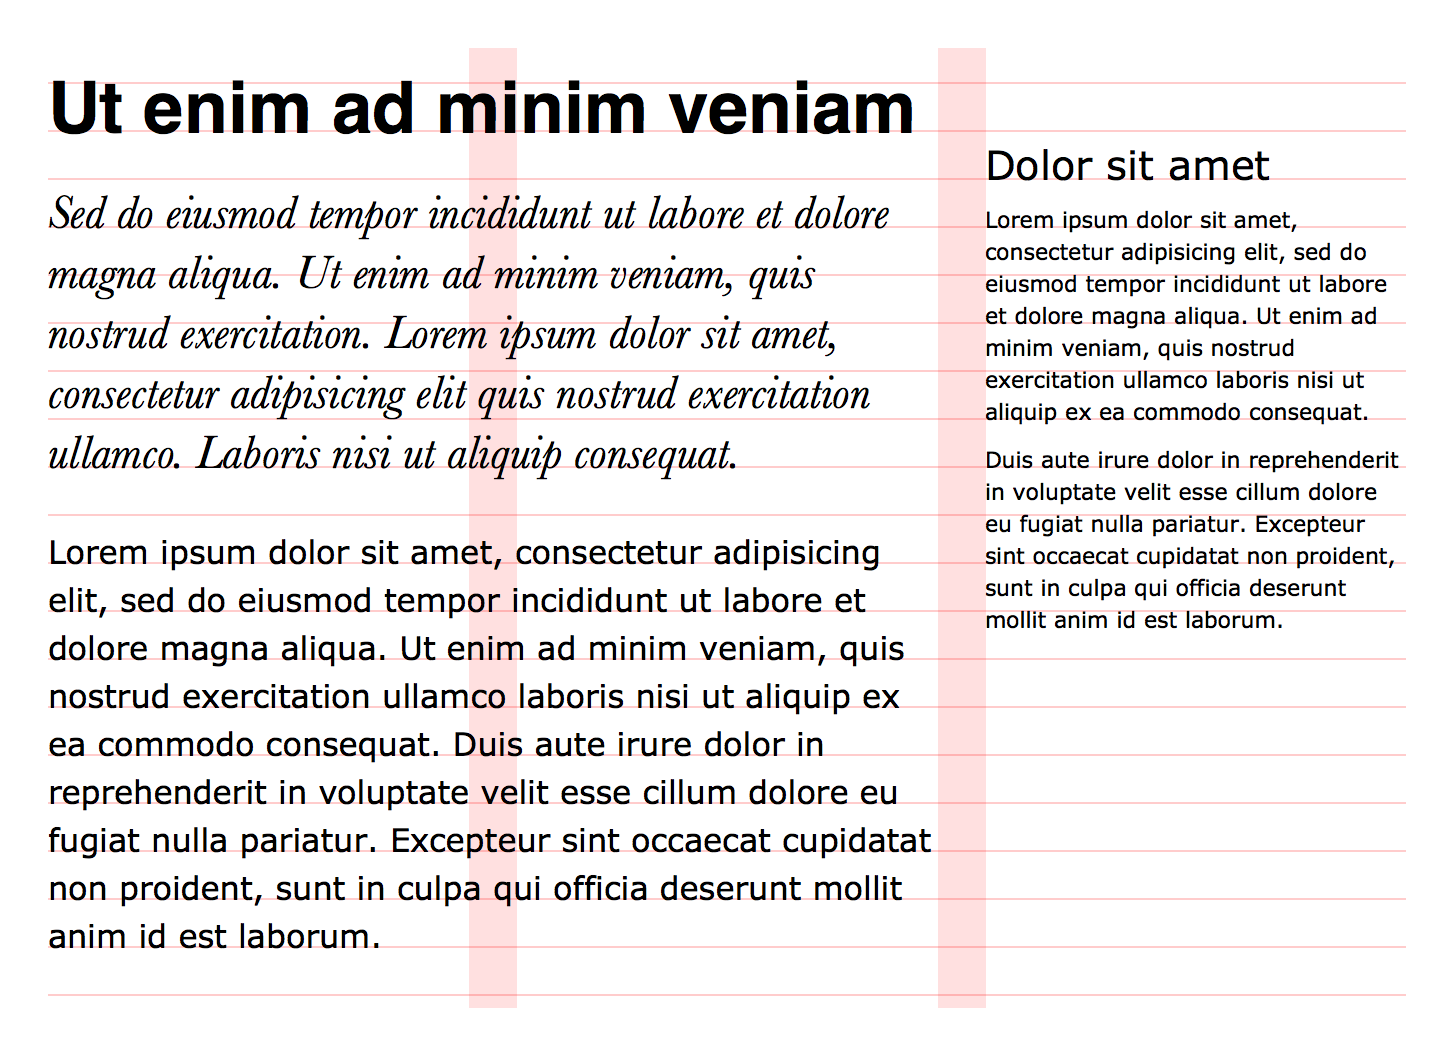
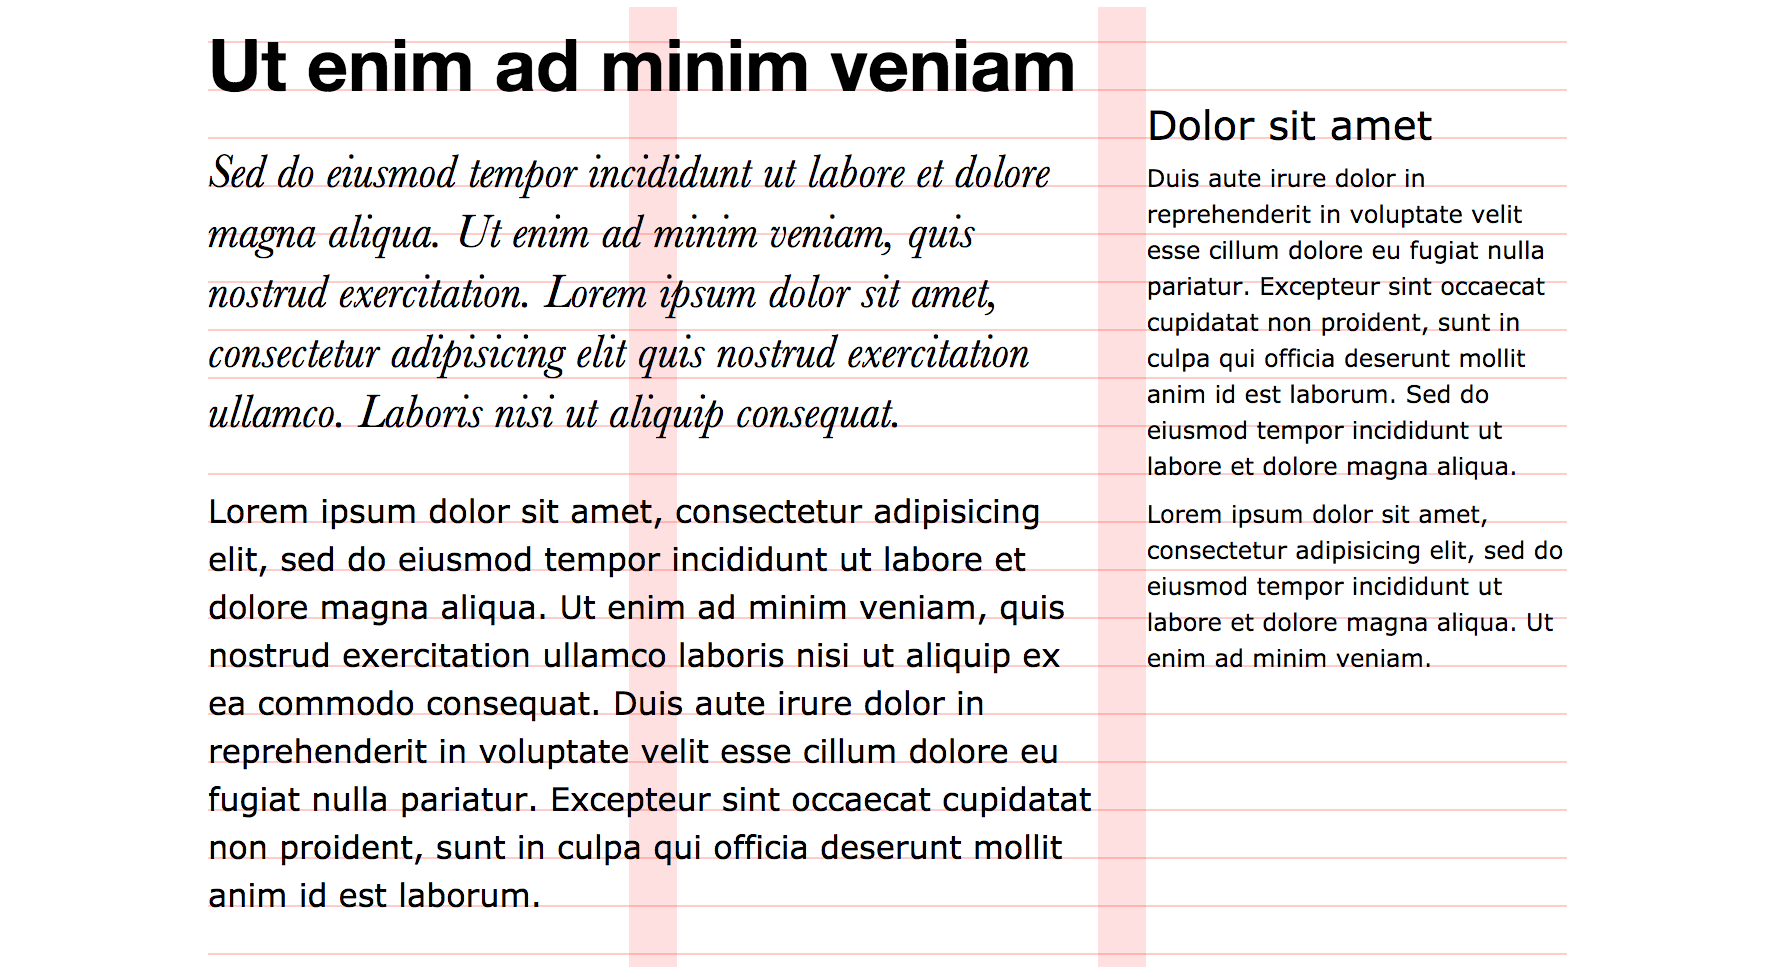
Modify our example for new Github page size.

diff --git a/examples/001_Overview/index.html b/examples/001_Overview/index.html
@@ -21,8 +21,8 @@
 		
 		<aside>
 			<h2>Dolor sit amet</h2>
-			<p>Lorem ipsum dolor sit amet, consectetur adipisicing elit, sed do eiusmod tempor incididunt ut labore et dolore magna aliqua. Ut enim ad minim veniam, quis nostrud exercitation ullamco laboris nisi ut aliquip ex ea commodo consequat.</p>
-			<p>Duis aute irure dolor in reprehenderit in voluptate velit esse cillum dolore eu fugiat nulla pariatur. Excepteur sint occaecat cupidatat non proident, sunt in culpa qui officia deserunt mollit anim id est laborum.</p>
+			<p>Duis aute irure dolor in reprehenderit in voluptate velit esse cillum dolore eu fugiat nulla pariatur. Excepteur sint occaecat cupidatat non proident, sunt in culpa qui officia deserunt mollit anim id est laborum. Sed do eiusmod tempor incididunt ut labore et dolore magna aliqua.</p>
+			<p>Lorem ipsum dolor sit amet, consectetur adipisicing elit, sed do eiusmod tempor incididunt ut labore et dolore magna aliqua. Ut enim ad minim veniam.</p>
 		</aside>
 	</main>
 </body>

diff --git a/examples/001_Overview/stylesheet.less b/examples/001_Overview/stylesheet.less
@@ -34,17 +34,17 @@ time, mark, audio, video {
 
 .use-column-grid((728px - @gutter * 2), @gutter, 3);
 
-@helvetica-font-family: 'Helvetica', sans-serif;
+@helvetica-font-family: 'Helvetica Neue', sans-serif;
 @helvetica-font-variation: 700;
-@helvetica-font-offset: 0.845;
+@helvetica-font-offset: 0.879;
 
 @verdana-font-family: 'Verdana', sans-serif;
 @verdana-font-variation: 400;
 @verdana-font-offset: 0.898;
 
-@baskerville-font-family: 'Baskerville', sans-serif;
+@baskerville-font-family: 'Baskerville', serif;
 @baskerville-font-variation: italic 400;
-@baskerville-font-offset: 0.817;
+@baskerville-font-offset: 0.818;
 
 .use-modular-scale(16px, 8px 12px 13px 16px 20px 24px 30px 36px 42px 50px 74px 90px);
 .use-baseline-grid(0, 1.5, verdana);
@@ -52,6 +52,8 @@ time, mark, audio, video {
 html {
 	width: @grid-width;
 	padding: @grid-gutter;
+	margin-left: 80px;
+	margin-right: 80px;
 	font-family: @verdana-font-family;
 	font-size: @baseline-size;
 	line-height: @baseline-height;

diff --git a/examples/001_Overview/stylesheet.css b/examples/001_Overview/stylesheet.css
@@ -93,6 +93,8 @@ video {
 html {
   width: 680px;
   padding: 24px;
+  margin-left: 80px;
+  margin-right: 80px;
   font-family: 'Verdana', sans-serif;
   font-size: 16px;
   line-height: 1.5;
@@ -117,9 +119,9 @@ main > aside {
 }
 h1 {
   position: relative;
-  top: -16.552px;
-  top: -1.0345rem;
-  font: 700 36px / 1.25 'Helvetica', sans-serif;
+  top: -17.776px;
+  top: -1.111rem;
+  font: 700 36px / 1.25 'Helvetica Neue', sans-serif;
   font-size: 2.25rem;
   padding-top: 24px;
   padding-top: 1.5rem;
@@ -128,9 +130,9 @@ h1 {
 }
 h1 + p {
   position: relative;
-  top: -4.24px;
-  top: -0.265rem;
-  font: italic 400 24px / 1.25 'Baskerville', sans-serif;
+  top: -4.264px;
+  top: -0.2665rem;
+  font: italic 400 24px / 1.25 'Baskerville', serif;
   font-size: 1.5rem;
   margin-bottom: 24px;
   margin-bottom: calc(1.5rem + -0.375rem);

diff --git a/README.md b/README.md
@@ -10,7 +10,7 @@ Order.less is made of three loosely coupled modules:
 
 [less]: http://lesscss.org
 
-You can see all of these mixins in action in [this example](examples/001_Overview/), where some <samp>lorem ipsum</samp> is set in 3 different typefaces and laid out on a 3-column grid:
+You can see all of these mixins in action in the following example, where some <samp>lorem ipsum</samp> is set in 3 different typefaces, laid out on a 3-column grid, and each element is realigned to sit on baseline:
 
 <a href="examples/001_Overview/"><img src="examples/001_Overview/index.png" alt=""></a>
 
@@ -32,12 +32,9 @@ npm install order.less
 Column grid mixins let you define a uniform grid with fixed inner gutters, and set elements' padding, margin, offset and width in columns. At the moment, only uniform grids with inner gutters are supported, e.g. a 3-column grid will have 2 gutters between 3 columns of equal width.
 
 <!--
-### Examples
-TODO: EXAMPLE: Show the 12 column grid without any content
-TODO: EXAMPLE: Basic page layout
-TODO: EXAMPLE: Item grid
-TODO: EXAMPLE: Combining multiple grids
+	TODO: Show an example that demonstrates a simple 2:1 content:sidebar layout + 1:4 grid items, with both 3 and 4 column grid highlighted.
 -->
+
 
 ### Mixin reference
 
